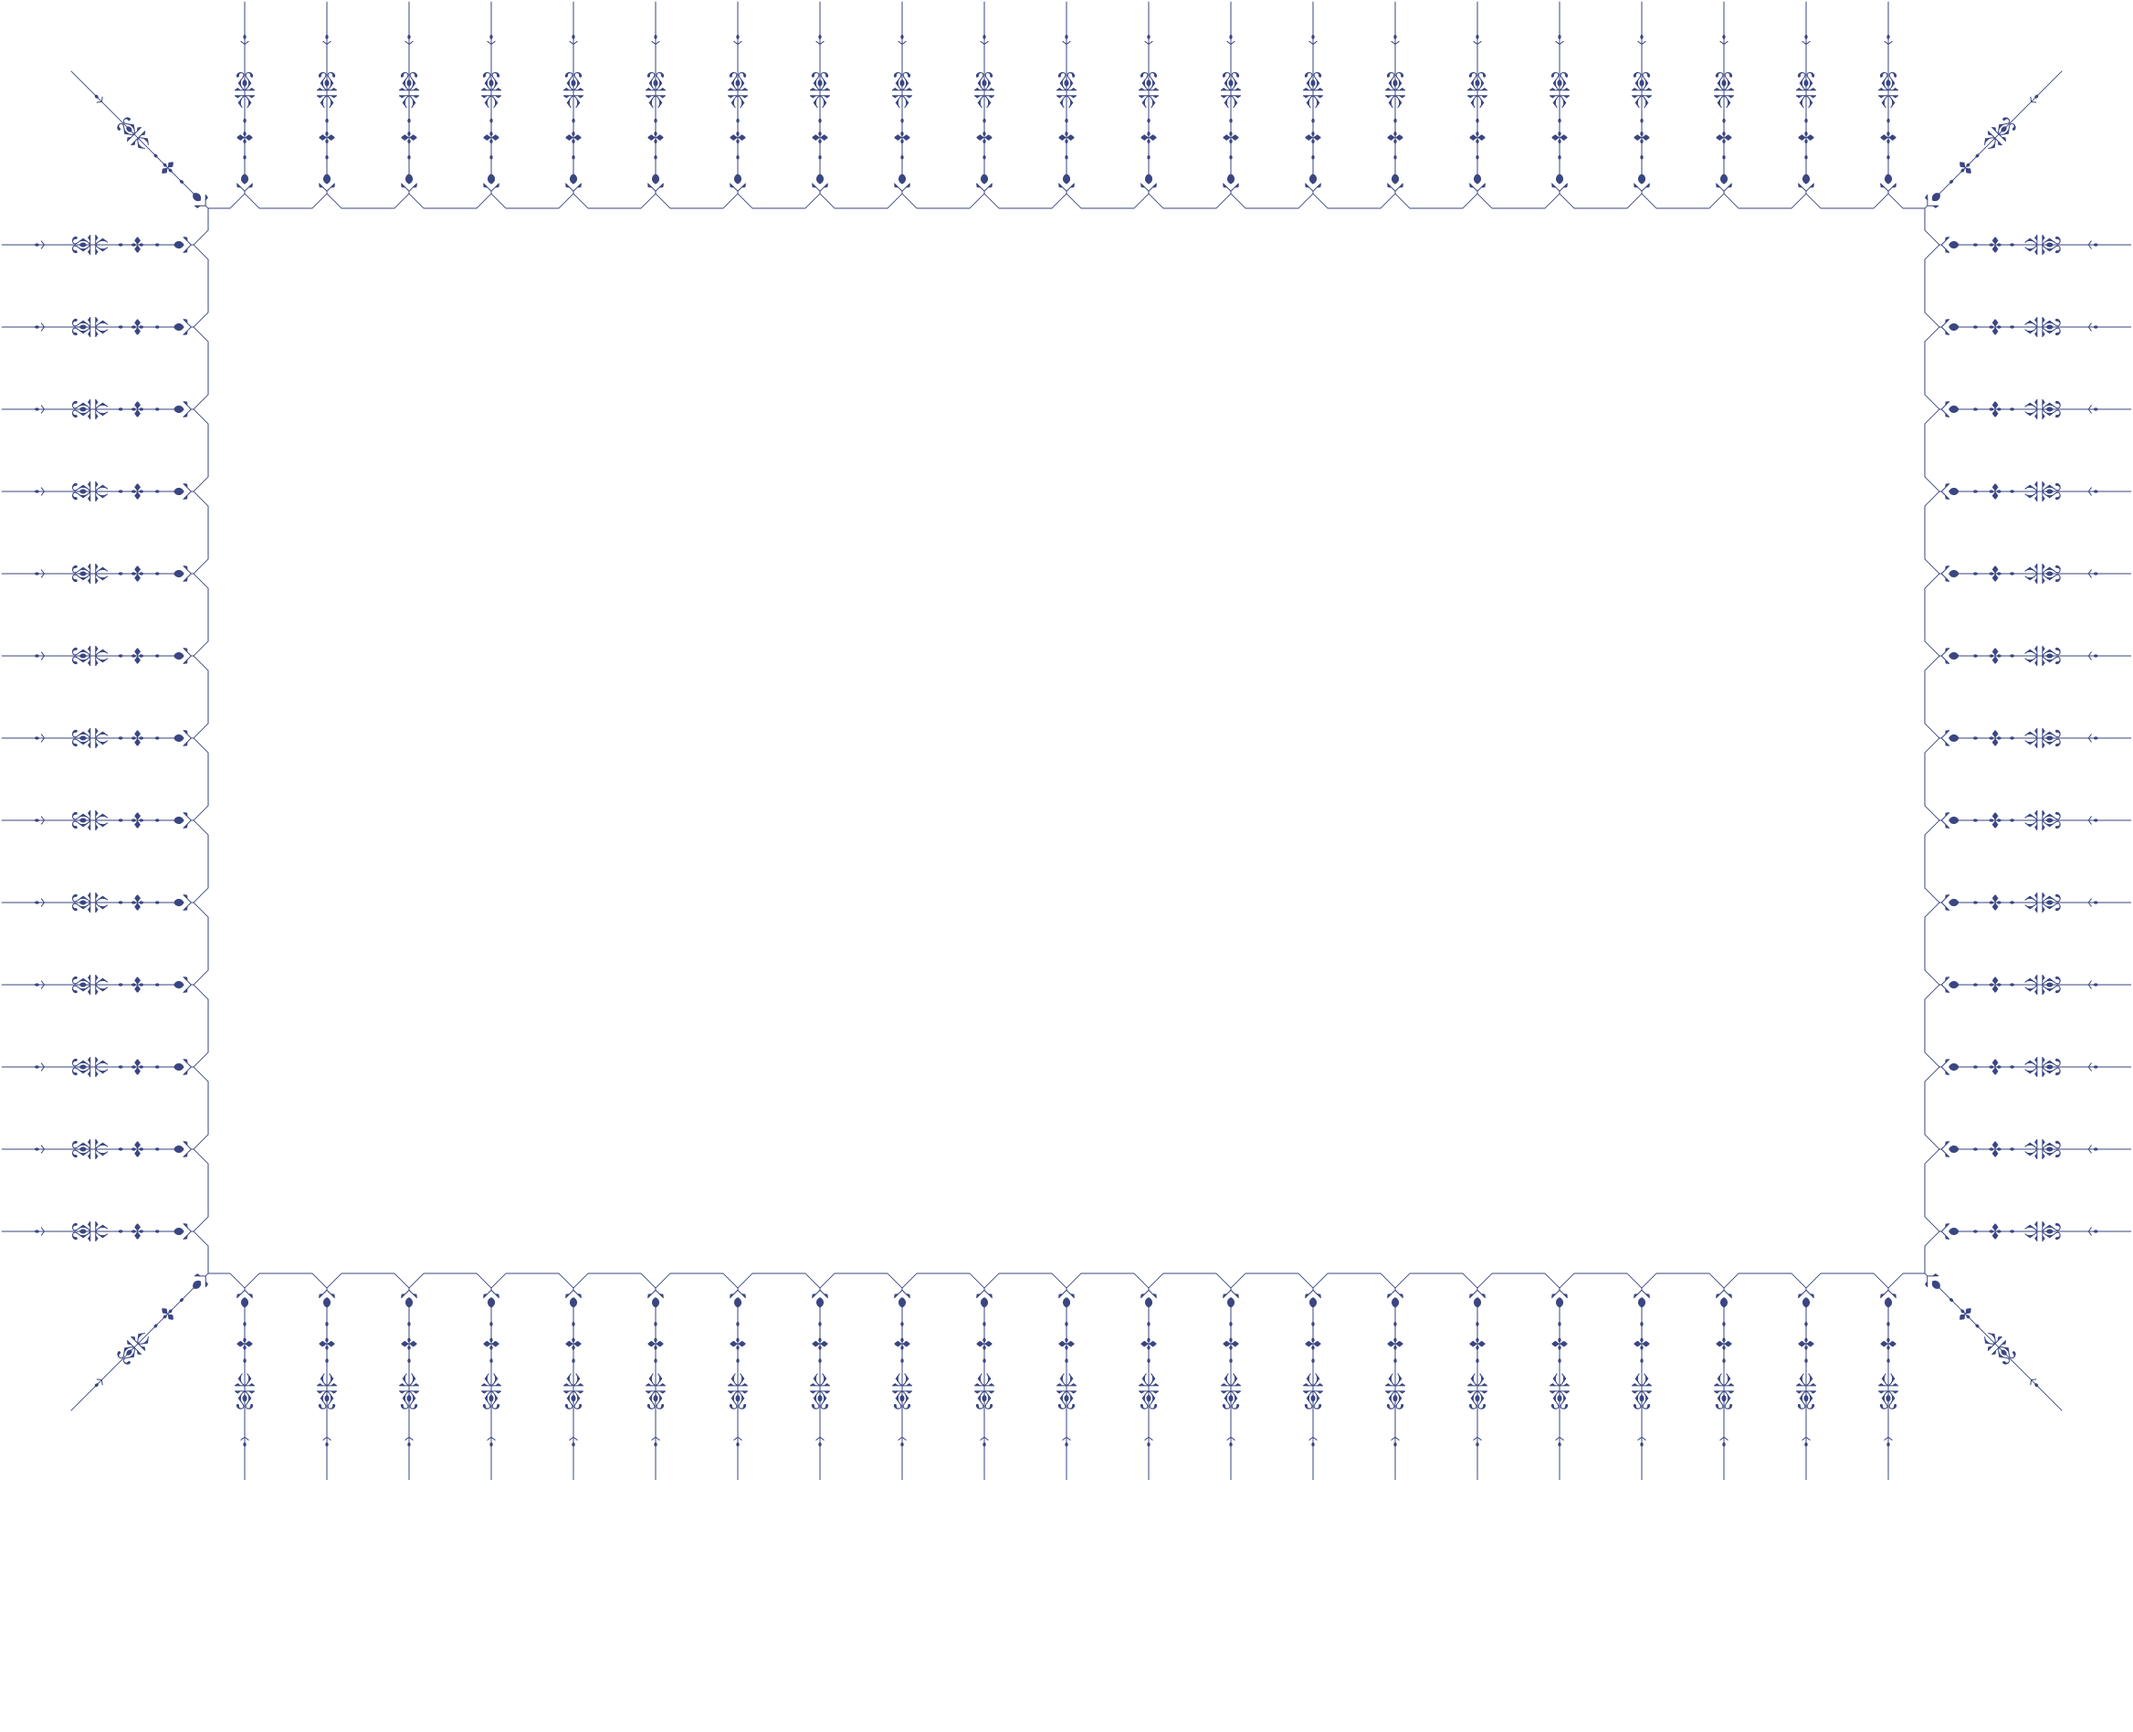
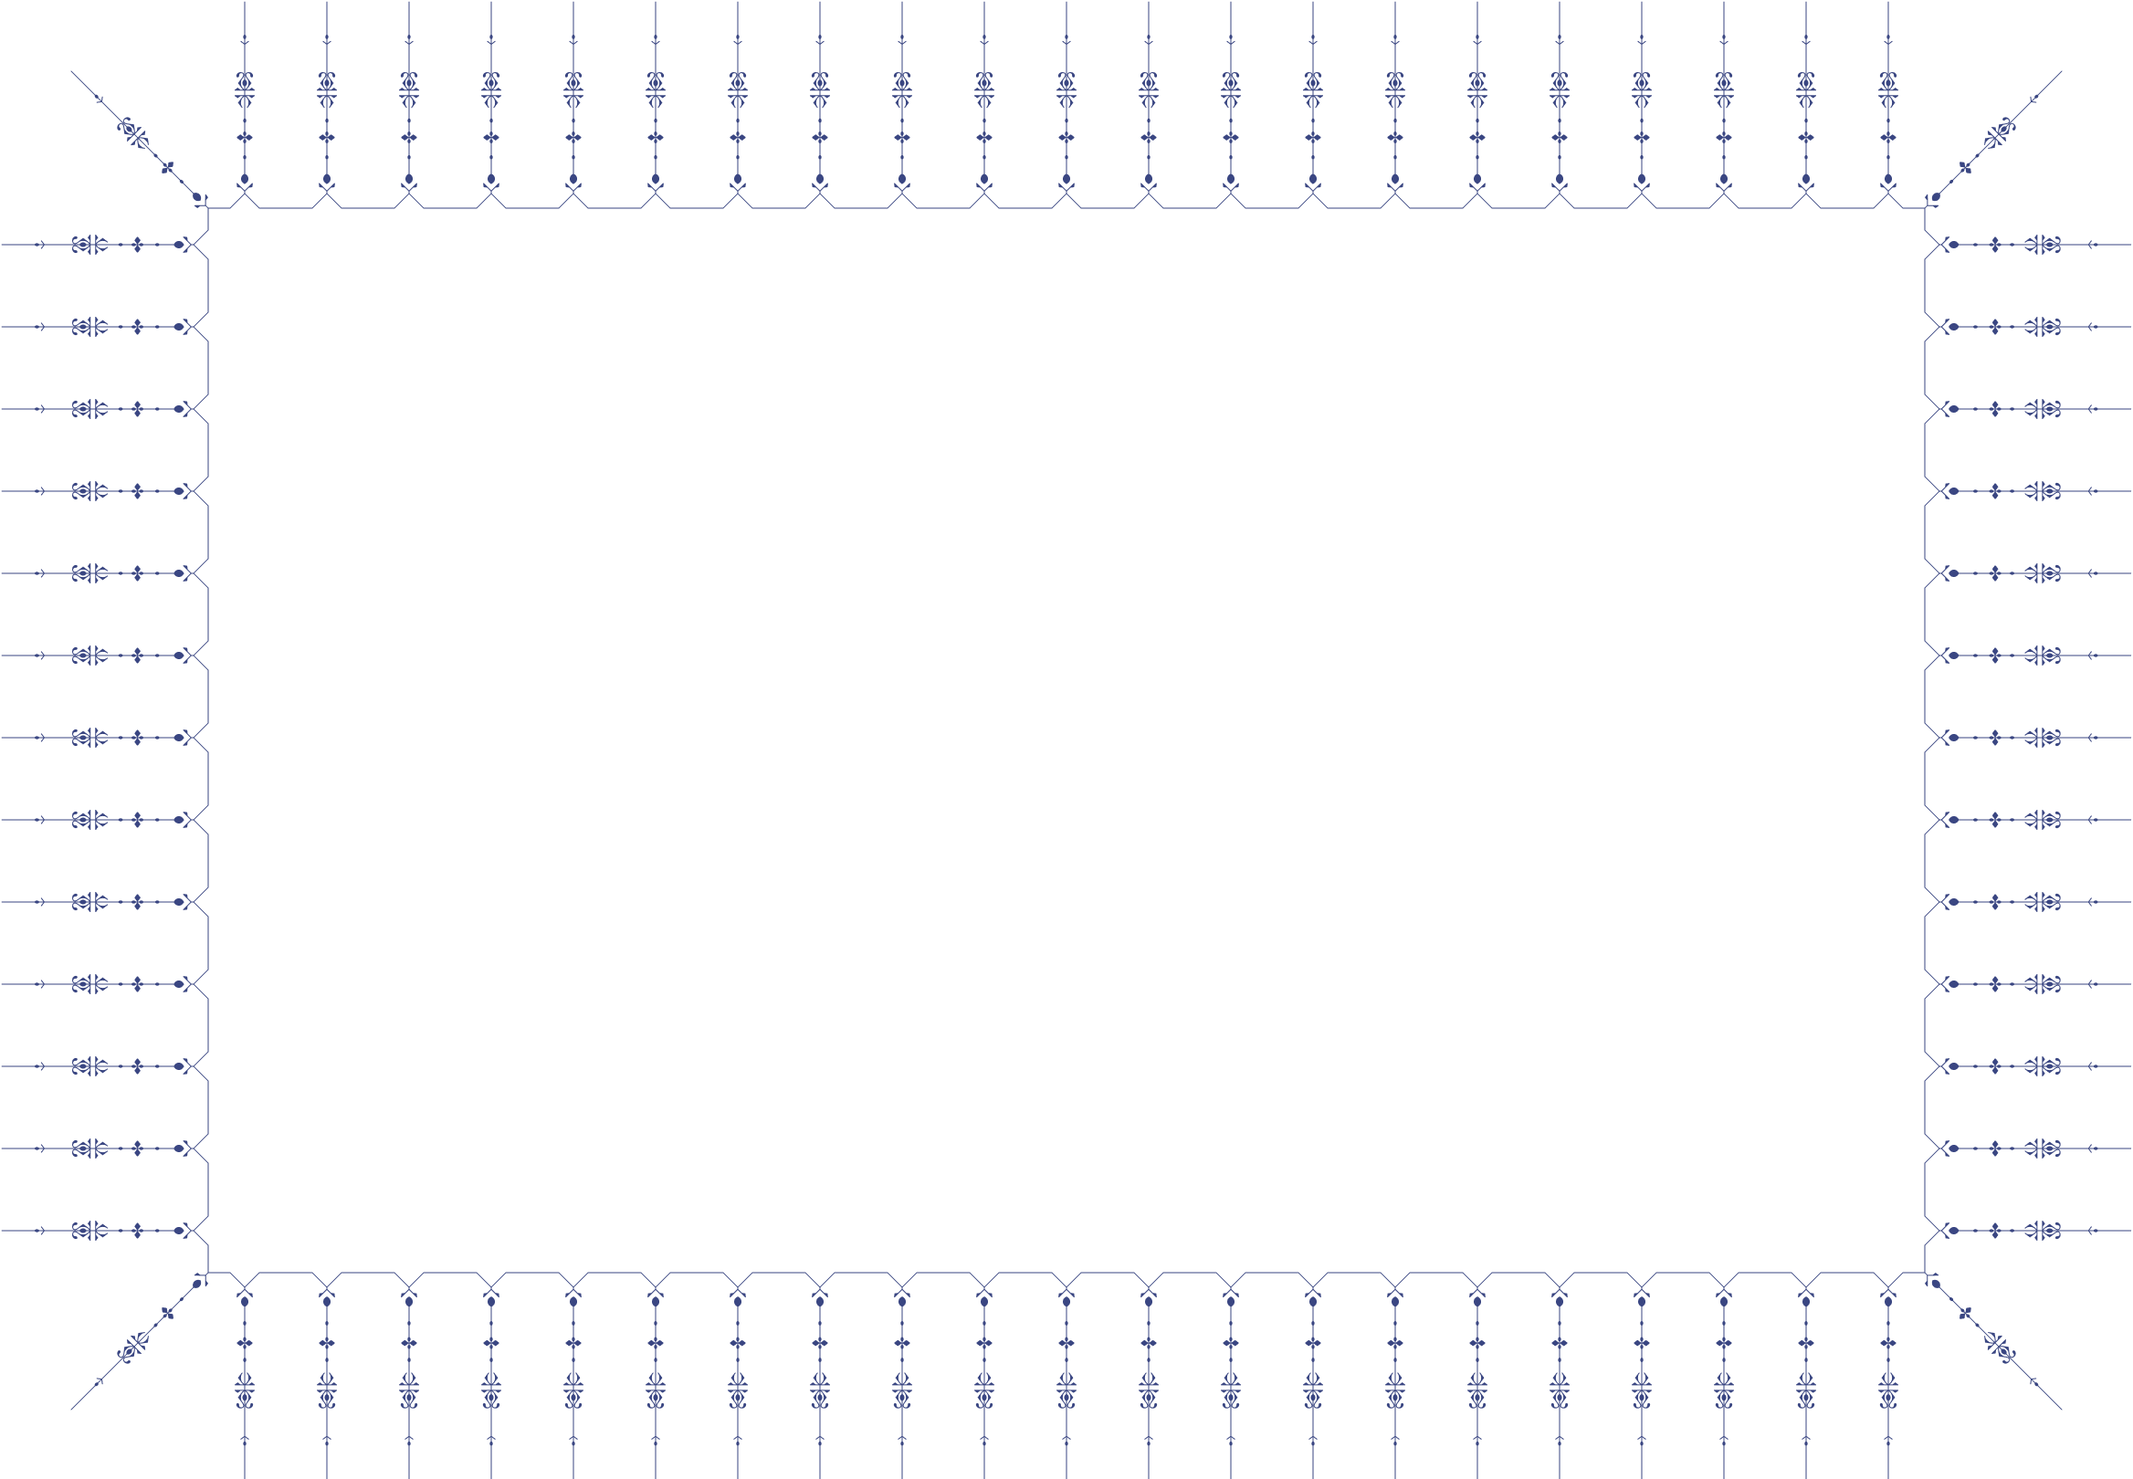
fix: border image layout

diff --git a/src/pages/landing.tsx b/src/pages/landing.tsx
@@ -64,10 +64,13 @@ const Section = styled.section`
 `
 
 const TopSection = styled(Section)`
-  background: url(${LandingBg}) no-repeat bottom / contain;
-  height: 840px;
-  margin-top: 90px;
-  padding-top: 100px;
+  border: 40px solid;
+  border-image-source: url(${LandingBg});
+  border-image-slice: 230;
+  border-image-repeat: round;
+  margin: 100px auto 200px;
+  padding: 40px 60px;
+  width: fit-content;
 `
 
 const BgColor = styled.div`
